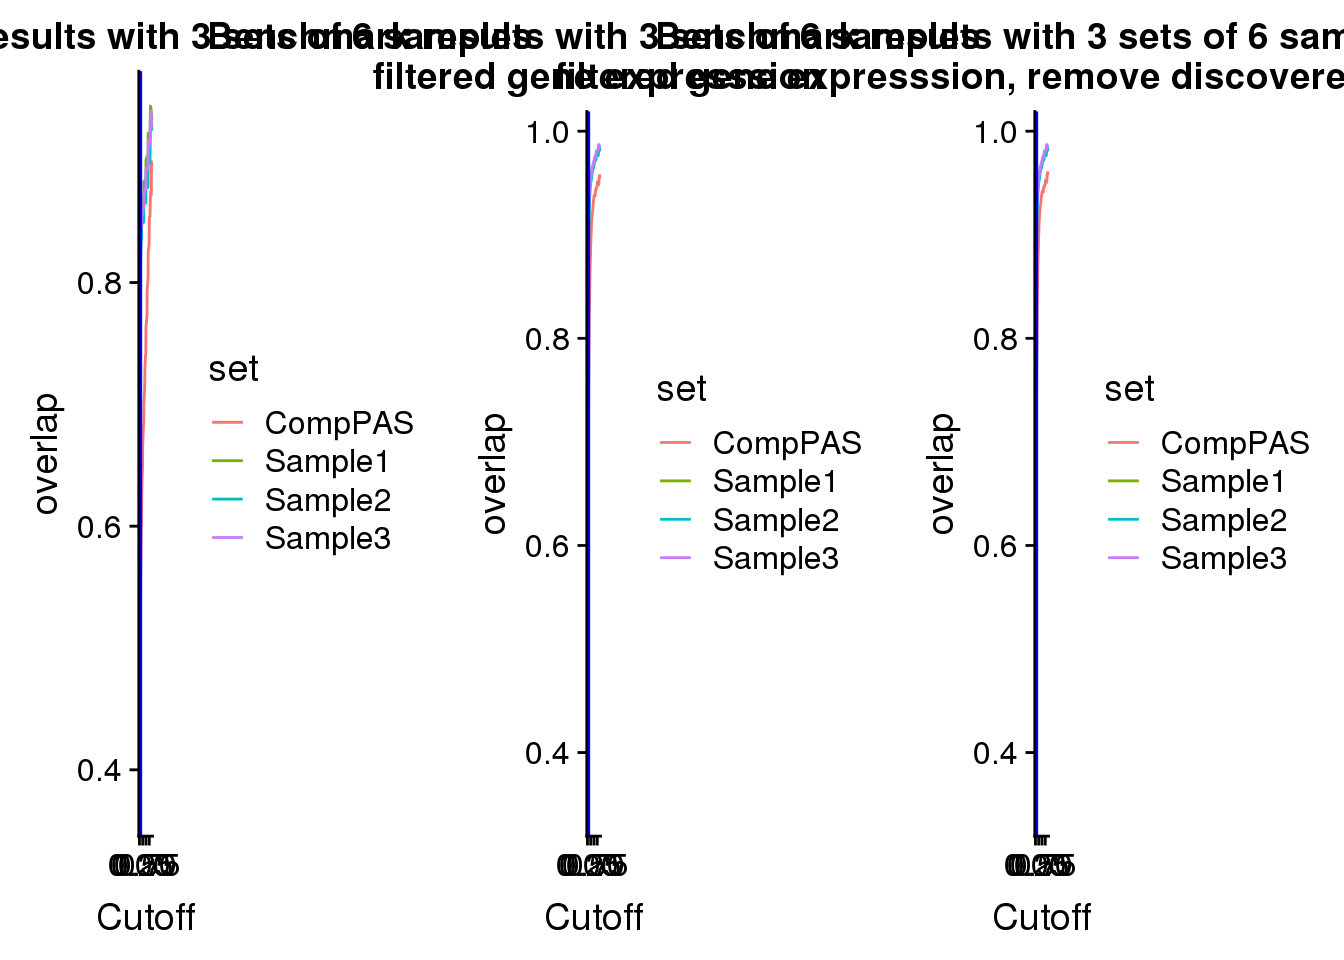
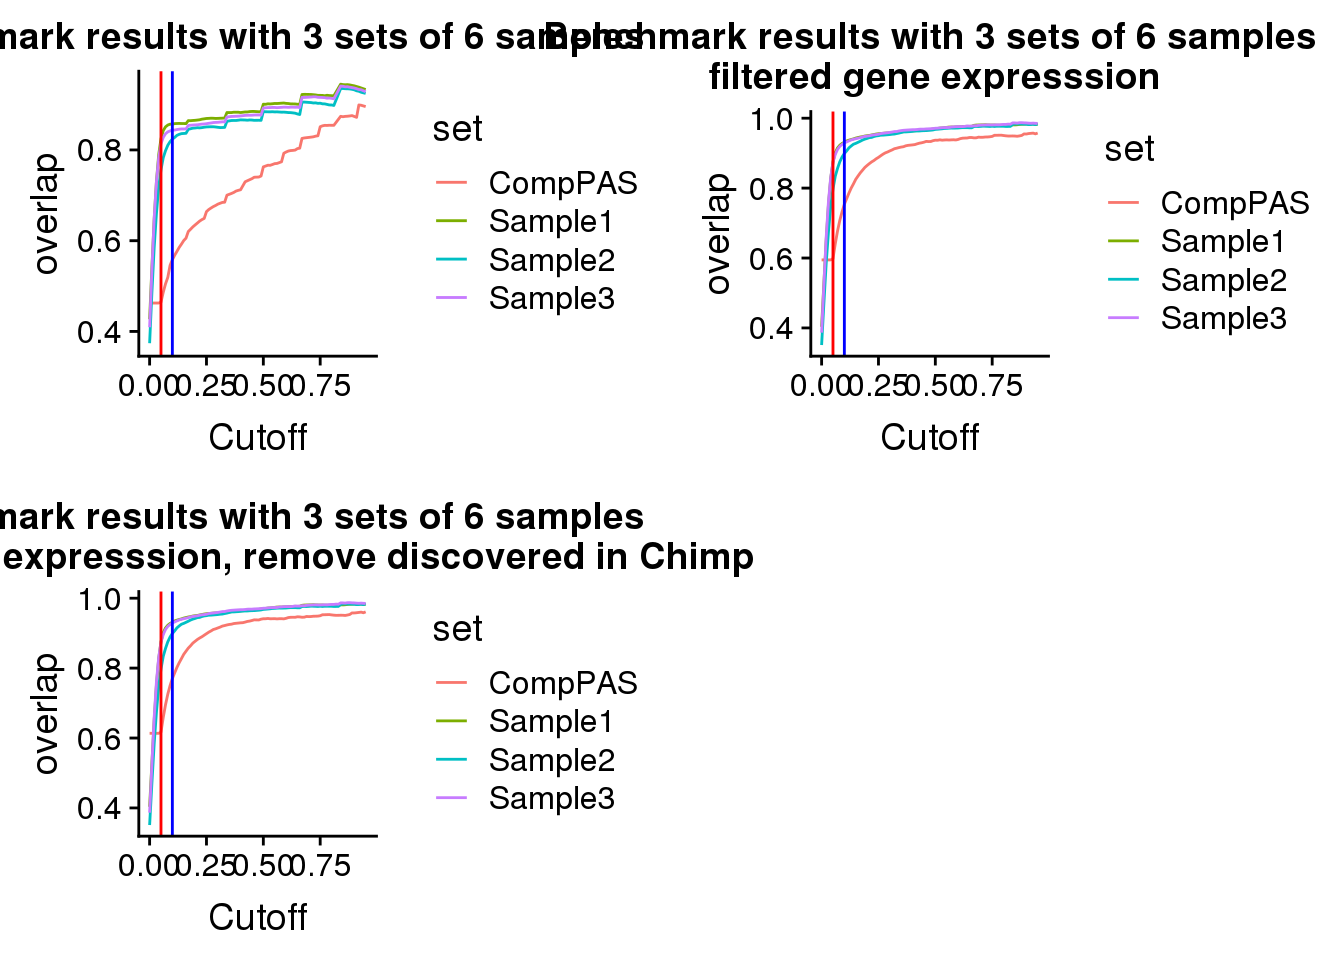
Build site.

diff --git a/docs/establishCutoffs.html b/docs/establishCutoffs.html
@@ -325,7 +325,7 @@ div.section {
 
 <p>
 <button type="button" class="btn btn-default btn-workflowr btn-workflowr-report" data-toggle="collapse" data-target="#workflowr-report">
-<span class="glyphicon glyphicon-list" aria-hidden="true"></span> workflowr <span class="glyphicon glyphicon-ok text-success" aria-hidden="true"></span>
+<span class="glyphicon glyphicon-list" aria-hidden="true"></span> workflowr <span class="glyphicon glyphicon-exclamation-sign text-danger" aria-hidden="true"></span>
 </button>
 </p>
 <div id="workflowr-report" class="collapse">
@@ -334,7 +334,7 @@ div.section {
 <a data-toggle="tab" href="#summary">Summary</a>
 </li>
 <li>
-<a data-toggle="tab" href="#checks"> Checks <span class="glyphicon glyphicon-ok text-success" aria-hidden="true"></span> </a>
+<a data-toggle="tab" href="#checks"> Checks <span class="glyphicon glyphicon-exclamation-sign text-danger" aria-hidden="true"></span> </a>
 </li>
 <li>
 <a data-toggle="tab" href="#versions">Past versions</a>
@@ -346,7 +346,7 @@ div.section {
 <strong>Last updated:</strong> 2020-01-21
 </p>
 <p>
-<strong>Checks:</strong> <span class="glyphicon glyphicon-ok text-success" aria-hidden="true"></span> 7 <span class="glyphicon glyphicon-exclamation-sign text-danger" aria-hidden="true"></span> 0
+<strong>Checks:</strong> <span class="glyphicon glyphicon-ok text-success" aria-hidden="true"></span> 6 <span class="glyphicon glyphicon-exclamation-sign text-danger" aria-hidden="true"></span> 1
 </p>
 <p>
 <strong>Knit directory:</strong> <code>Comparative_APA/analysis/</code> <span class="glyphicon glyphicon-question-sign" aria-hidden="true" title="This is the local directory in which the code in this file was executed."> </span>
@@ -362,12 +362,12 @@ This reproducible <a href="http://rmarkdown.rstudio.com">R Markdown</a> analysis
 <div class="panel panel-default">
 <div class="panel-heading">
 <p class="panel-title">
-<a data-toggle="collapse" data-parent="#workflowr-checks" href="#strongRMarkdownfilestronguptodate"> <span class="glyphicon glyphicon-ok text-success" aria-hidden="true"></span> <strong>R Markdown file:</strong> up-to-date </a>
+<a data-toggle="collapse" data-parent="#workflowr-checks" href="#strongRMarkdownfilestronguncommittedchanges"> <span class="glyphicon glyphicon-exclamation-sign text-danger" aria-hidden="true"></span> <strong>R Markdown file:</strong> uncommitted changes </a>
 </p>
 </div>
-<div id="strongRMarkdownfilestronguptodate" class="panel-collapse collapse">
+<div id="strongRMarkdownfilestronguncommittedchanges" class="panel-collapse collapse">
 <div class="panel-body">
-<p>Great! Since the R Markdown file has been committed to the Git repository, you know the exact version of the code that produced these results.</p>
+<p>The R Markdown file has unstaged changes. To know which version of the R Markdown file created these results, you’ll want to first commit it to the Git repo. If you’re still working on the analysis, you can ignore this warning. When you’re finished, you can run <code>wflow_publish</code> to commit the R Markdown file and build the HTML.</p>
 </div>
 </div>
 </div>
@@ -434,10 +434,10 @@ This reproducible <a href="http://rmarkdown.rstudio.com">R Markdown</a> analysis
 <div class="panel panel-default">
 <div class="panel-heading">
 <p class="panel-title">
-<a data-toggle="collapse" data-parent="#workflowr-checks" href="#strongRepositoryversionstrongahrefhttpsgithubcombrimittlemanComparativeAPAtreec27674c6d1dee0a9a99514500ecff762564723cdtargetblankc27674ca"> <span class="glyphicon glyphicon-ok text-success" aria-hidden="true"></span> <strong>Repository version:</strong> <a href="https://github.com/brimittleman/Comparative_APA/tree/c27674c6d1dee0a9a99514500ecff762564723cd" target="_blank">c27674c</a> </a>
+<a data-toggle="collapse" data-parent="#workflowr-checks" href="#strongRepositoryversionstrongahrefhttpsgithubcombrimittlemanComparativeAPAtree42c66a9414afa38a9726ac79175170f0cabb9dbetargetblank42c66a9a"> <span class="glyphicon glyphicon-ok text-success" aria-hidden="true"></span> <strong>Repository version:</strong> <a href="https://github.com/brimittleman/Comparative_APA/tree/42c66a9414afa38a9726ac79175170f0cabb9dbe" target="_blank">42c66a9</a> </a>
 </p>
 </div>
[2 lines of base64/hex data omitted]
 <div class="panel-body">
 <p>
 Great! You are using Git for version control. Tracking code development and connecting the code version to the results is critical for reproducibility. The version displayed above was the version of the Git repository at the time these results were generated. <br><br> Note that you need to be careful to ensure that all relevant files for the analysis have been committed to Git prior to generating the results (you can use <code>wflow_publish</code> or <code>wflow_git_commit</code>). workflowr only checks the R Markdown file, but you know if there are other scripts or data files that it depends on. Below is the status of the Git repository when the results were generated:
@@ -1012,6 +1012,7 @@ Unstaged changes:
     Modified:   analysis/annotationInfo.Rmd
     Modified:   analysis/comp2apaQTLPAS.Rmd
     Modified:   analysis/correlationPhenos.Rmd
+    Modified:   analysis/establishCutoffs.Rmd
     Modified:   analysis/investigatePantro5.Rmd
     Modified:   analysis/multiMap.Rmd
     Modified:   analysis/speciesSpecific.Rmd
@@ -1053,6 +1054,23 @@ Message
 </tr>
 </thead>
 <tbody>
+<tr>
+<td>
+html
+</td>
+<td>
+<a href="https://rawcdn.githack.com/brimittleman/Comparative_APA/42c66a9414afa38a9726ac79175170f0cabb9dbe/docs/establishCutoffs.html" target="_blank">42c66a9</a>
+</td>
+<td>
+brimittleman
+</td>
+<td>
+2020-01-21
+</td>
+<td>
+Build site.
+</td>
+</tr>
 <tr>
 <td>
 Rmd
@@ -1674,6 +1692,17 @@ Date
 <tbody>
 <tr>
 <td>
+<a href="https://github.com/brimittleman/Comparative_APA/blob/42c66a9414afa38a9726ac79175170f0cabb9dbe/docs/figure/establishCutoffs.Rmd/unnamed-chunk-25-1.png" target="_blank">42c66a9</a>
+</td>
+<td>
+brimittleman
+</td>
+<td>
+2020-01-21
+</td>
+</tr>
+<tr>
+<td>
 <a href="https://github.com/brimittleman/Comparative_APA/blob/c211e215cc82898901dd43dc9cfac50fbf10154d/docs/figure/establishCutoffs.Rmd/unnamed-chunk-25-1.png" target="_blank">c211e21</a>
 </td>
 <td>
@@ -1709,9 +1738,83 @@ FilteredResNochimp_gather=FilteredResNochimp %&gt;% gather(key=&quot;set&quot;, 
 
 filteredbencnoChimop</code></pre>
 <p><img src="figure/establishCutoffs.Rmd/unnamed-chunk-29-1.png" width="672" style="display: block; margin: auto;" /></p>
+<p>
+<button type="button" class="btn btn-default btn-xs btn-workflowr btn-workflowr-fig" data-toggle="collapse" data-target="#fig-unnamed-chunk-29-1">
+Past versions of unnamed-chunk-29-1.png
+</button>
+</p>
+<div id="fig-unnamed-chunk-29-1" class="collapse">
+<div class="table-responsive">
+<table class="table table-condensed table-hover">
+<thead>
+<tr>
+<th>
+Version
+</th>
+<th>
+Author
+</th>
+<th>
+Date
+</th>
+</tr>
+</thead>
+<tbody>
+<tr>
+<td>
+<a href="https://github.com/brimittleman/Comparative_APA/blob/42c66a9414afa38a9726ac79175170f0cabb9dbe/docs/figure/establishCutoffs.Rmd/unnamed-chunk-29-1.png" target="_blank">42c66a9</a>
+</td>
+<td>
+brimittleman
+</td>
+<td>
+2020-01-21
+</td>
+</tr>
+</tbody>
+</table>
+</div>
+</div>
 <p>Plot together:</p>
-<pre class="r"><code>plot_grid(bench,filteredbench,filteredbencnoChimop, nrow=1)</code></pre>
+<pre class="r"><code>plot_grid(bench,filteredbench,filteredbencnoChimop)</code></pre>
 <p><img src="figure/establishCutoffs.Rmd/unnamed-chunk-30-1.png" width="672" style="display: block; margin: auto;" /></p>
+<p>
+<button type="button" class="btn btn-default btn-xs btn-workflowr btn-workflowr-fig" data-toggle="collapse" data-target="#fig-unnamed-chunk-30-1">
+Past versions of unnamed-chunk-30-1.png
+</button>
+</p>
+<div id="fig-unnamed-chunk-30-1" class="collapse">
+<div class="table-responsive">
+<table class="table table-condensed table-hover">
+<thead>
+<tr>
+<th>
+Version
+</th>
+<th>
+Author
+</th>
+<th>
+Date
+</th>
+</tr>
+</thead>
+<tbody>
+<tr>
+<td>
+<a href="https://github.com/brimittleman/Comparative_APA/blob/42c66a9414afa38a9726ac79175170f0cabb9dbe/docs/figure/establishCutoffs.Rmd/unnamed-chunk-30-1.png" target="_blank">42c66a9</a>
+</td>
+<td>
+brimittleman
+</td>
+<td>
+2020-01-21
+</td>
+</tr>
+</tbody>
+</table>
+</div>
+</div>
 <p>Looks like using a 10% usage and this expression cuttoff is pretty good.</p>
 <br>
 <p>
